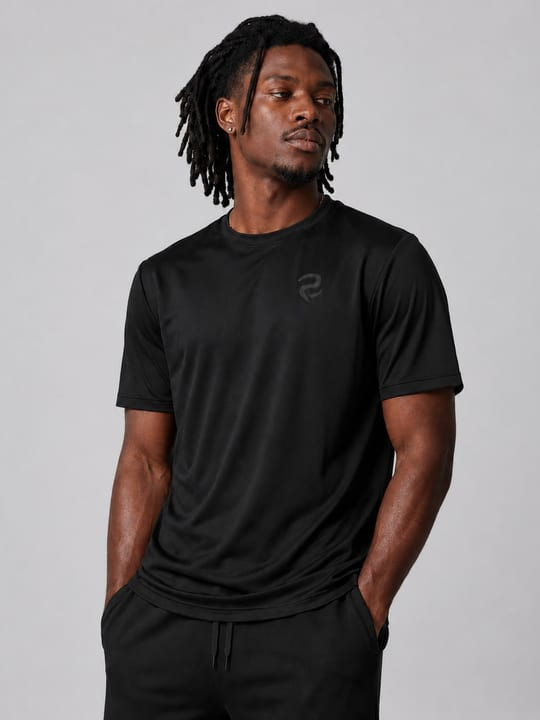
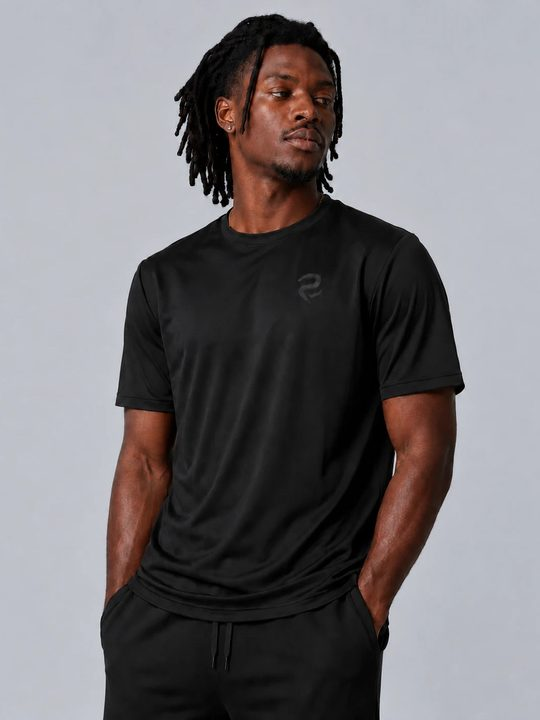
Men's T-Shirt: regraded set shots lead the gallery; set front is the cover, set side the Shop All hover; 2 Oct trio follows

diff --git a/product.html b/product.html
@@ -338,7 +338,7 @@ const PRODUCTS={
   'low-impact-bra':{name:'Low Impact Sports Bra',gender:"Women's",price:'KES 4,450',priceVal:4450,image:'images/low-impact-bra.jpg',images:['images/low-impact-bra.jpg','images/low-impact-bra-front.jpg','images/low-impact-bra-side.jpg','images/low-impact-bra-back.jpg'],sizes:['S','M','L','XL','XXL'],desc:"Lightweight and breathable for yoga, pilates, stretching, and low-intensity sessions. Scoop neck with a clean racerback silhouette. Removable padding, soft-touch fabric.",details:['Light support rating','Racerback silhouette','Scoop neckline','Removable padding','Soft-touch four-way stretch fabric','Fabric: Body Fabric: 82% Polyamide, 18% Elastane / Mesh: 88% Polyamide, 12% Elastane Mesh']},
   'jacket-w':{name:"Women's Jacket",gender:"Women's",price:'KES 7,200',priceVal:7200,image:'images/jacket-w.jpg',images:['images/jacket-w.jpg','images/jacket-w-front-angle.jpg','images/jacket-w-back-angle.jpg','images/jacket-w-back.jpg'],sizes:['S','M','L','XL','XXL'],desc:"A versatile training jacket built for warm-ups, cool-downs, and everything in between. Two side pockets and a straight fit.",details:['Full-length zip front','Two side zip pockets','Straight fit','Fabric: 100% Polyester']},
   'tshirt-w':{name:"Women's T-Shirt",gender:"Women's",price:'KES 4,200',priceVal:4200,image:'images/tshirt-w.jpg',images:['images/tshirt-w.jpg','images/tshirt-w-front-angle.jpg','images/tshirt-w-back.jpg','images/tshirt-w-detail.jpg','images/tshirt-w-movement.jpg'],sizes:['S','M','L','XL','XXL'],desc:"A clean training tee built for movement. Lightweight moisture-wicking fabric, a relaxed fit that stays in place, and a full-length hem. Wear it to the gym, on a run, or straight after.",details:['Moisture-wicking fabric','Relaxed fit, full length','Crew neck','Flatlock shoulder seams','Fabric: 89% Polyester, 11% Elastane']},
-  'tshirt-m':{name:"Men's T-Shirt",gender:"Men's",price:'KES 4,200',priceVal:4200,image:'images/tshirt-m.jpg',images:['images/tshirt-m.jpg','images/tshirt-m-side.jpg','images/tshirt-m-back.jpg'],sizes:['S','M','L','XL','XXL'],desc:"A training tee that does its job without getting in the way. Sweat-wicking fabric, a clean regular fit, and a slightly dropped hem. Equally at home in the gym or on the way there.",details:['Moisture-wicking fabric','Regular fit with dropped hem','Crew neck','Flatlock shoulder seams','Fabric: 89% Polyester, 11% Elastane']},
+  'tshirt-m':{name:"Men's T-Shirt",gender:"Men's",price:'KES 4,200',priceVal:4200,image:'images/tshirt-m.jpg',images:['images/tshirt-m.jpg','images/tshirt-m-set-side.jpg','images/tshirt-m-set-back.jpg','images/tshirt-m-front.jpg','images/tshirt-m-side.jpg','images/tshirt-m-back.jpg'],sizes:['S','M','L','XL','XXL'],desc:"A training tee that does its job without getting in the way. Sweat-wicking fabric, a clean regular fit, and a slightly dropped hem. Equally at home in the gym or on the way there.",details:['Moisture-wicking fabric','Regular fit with dropped hem','Crew neck','Flatlock shoulder seams','Fabric: 89% Polyester, 11% Elastane']},
   'quarter-zip-m':{name:"Men's Quarter Zip",gender:"Men's",price:'KES 5,600',priceVal:5600,image:'images/quarter-zip-m.jpg',images:['images/quarter-zip-m.jpg','images/quarter-zip-m-front.jpg','images/quarter-zip-m-side.jpg','images/quarter-zip-m-seated.jpg'],sizes:['S','M','L','XL','XXL'],desc:"The warm-up layer you'll reach for every session. Quarter-zip collar, flatlock seams, and a clean minimal aesthetic. Lightweight enough to keep on during training.",details:['Quarter-zip collar','Flatlock seam construction','Regular straight fit','Moisture-wicking fabric','Fabric: 83% Polyester, 17% Elastane']},
   'shorts-m':{name:"Men's Shorts",gender:"Men's",price:'KES 6,050',priceVal:6050,image:'images/shorts-m.jpg',images:['images/shorts-m.jpg','images/shorts-m-side.jpg','images/shorts-m-back.jpg'],sizes:['S','M','L','XL','XXL'],desc:"Lightweight training shorts with an internal compression liner. Elastic waistband with drawcord. Side slit hem for full range of movement. Rear zip pocket.",details:['Internal compression liner','Elastic waistband with drawcord','Side slit hem','Rear zip pocket','Quick-dry fabric','Fabric: Outer Body: 92% Polyester, 8% Elastane / Outer Insert Fabric: 88% Polyester, 12% Elastane / Inner Layer Fabric: 88% Polyamide, 12% Elastane']},
   'training-pants-m':{name:"Training Pants",gender:"Men's",price:'KES 6,600',priceVal:6600,image:'images/training-pants-m.jpg',images:['images/training-pants-m.jpg','images/training-pants-m-side.jpg','images/training-pants-m-back.jpg'],sizes:['S','M','L','XL','XXL'],desc:"Full-length training pants built for early mornings and cool weather. Tapered fit, ankle zips for easy on/off, and a secure waistband.",details:['Tapered running fit','Ankle zip cuffs','Elastic waistband with drawcord','Two zip side pockets','Fabric: Main Fabric: 75% Polyamide, 25% Elastane / Insert Fabric: 88% Polyester, 12% Elastane']},

diff --git a/collections.html b/collections.html
@@ -201,7 +201,7 @@
       <div class="prod-card fu d1" data-gender="men">
         <div class="relative" style="aspect-ratio:3/4;overflow:hidden;background:#f3f4f6;">
           <img src="images/tshirt-m.jpg" alt="Men's T-Shirt" style="width:100%;height:100%;object-fit:cover;object-position:center;display:block;">
-          <img src="images/tshirt-m-side.jpg" alt="" aria-hidden="true" class="card-hover-img" loading="lazy" decoding="async">
+          <img src="images/tshirt-m-set-side.jpg" alt="" aria-hidden="true" class="card-hover-img" loading="lazy" decoding="async">
           <button class="add-btn" onclick="addToBag('tshirt-m','Men\'s T-Shirt',4200)">Add to Bag</button>
         </div>
         <div class="p-4">
